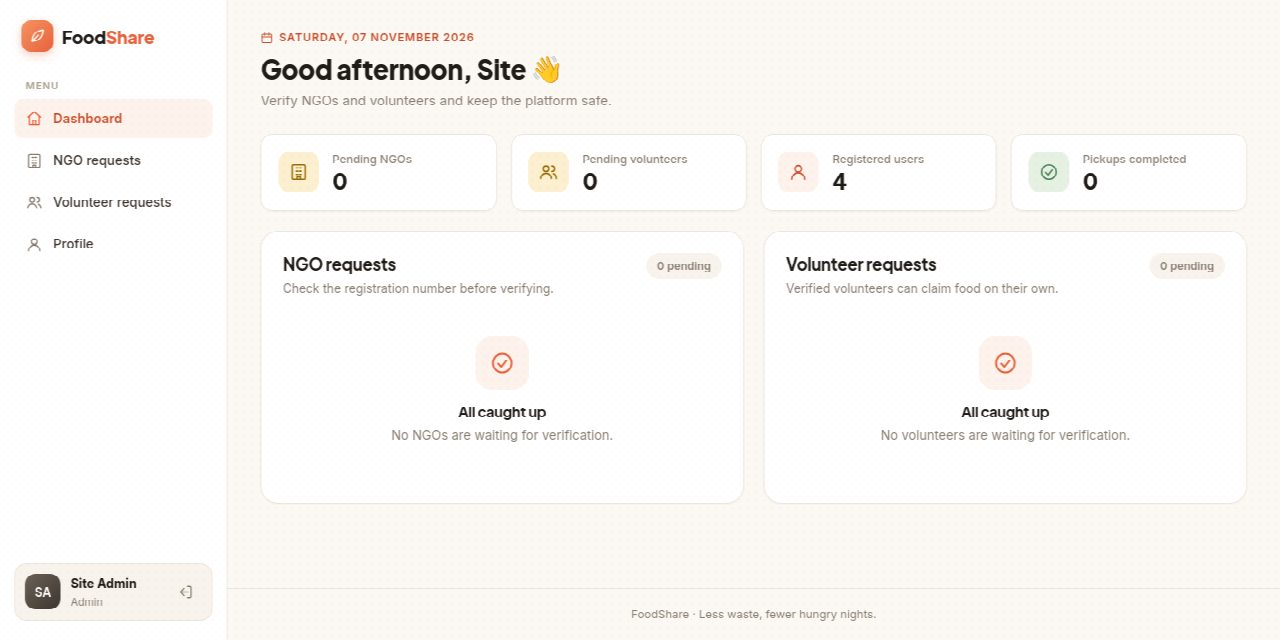
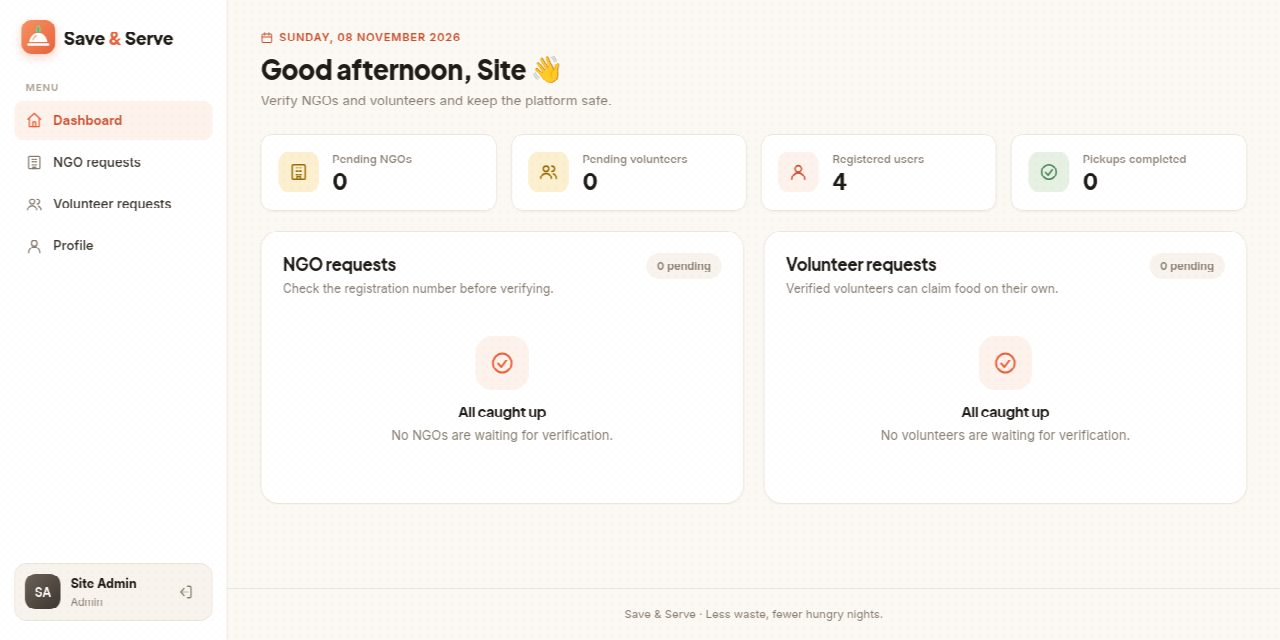
Rename the site from FoodShare to Save & Serve
Matches the project name used in the submitted documentation. Updates the sidebar and login branding to the new logo, page titles, favicon, footer, README and screenshots. Demo account emails (@foodshare.test) and the database name are unchanged.

diff --git a/assets/css/style.css b/assets/css/style.css
@@ -1,5 +1,5 @@
 /* ==========================================================================
-   FoodShare – design system (warm & light)
+   Save & Serve – design system (warm & light)
    1. Tokens   2. Base   3. Buttons   4. Forms   5. Alerts
    6. Auth pages   7. App shell   8. Dashboard   9. Food cards
    10. Tables & lists   11. Post food   12. Responsive
@@ -218,8 +218,7 @@ input.invalid:focus { box-shadow: 0 0 0 4px rgba(180, 35, 24, .14); }
 .sidebar .brand { padding: 0 .5rem; }
 .brand-light { color: #fff; }
 .brand-light b { color: #ffb59c; }
-.brand-mark { display: grid; place-items: center; width: 36px; height: 36px; border-radius: 11px; background: linear-gradient(135deg, #f59362, var(--primary)); color: #fff; box-shadow: 0 4px 12px rgba(232, 97, 60, .3); }
-.brand-mark .icon { width: 20px; height: 20px; }
+.brand-logo { width: 38px; height: 38px; flex-shrink: 0; border-radius: 11px; box-shadow: 0 4px 12px rgba(232, 97, 60, .3); }
 .auth-hero .brand { position: relative; z-index: 1; }
 
 .nav-label { font-size: .7rem; font-weight: 700; letter-spacing: .08em; text-transform: uppercase; color: #b0a597; padding: 0 .8rem; margin-bottom: .4rem; }
@@ -411,7 +410,7 @@ td small, .sub { display: block; color: var(--muted); font-size: .76rem; }
     .app { grid-template-columns: 1fr; }
     .sidebar { position: sticky; z-index: 20; height: auto; flex-direction: row; align-items: center; gap: .6rem; padding: .6rem 1rem; border-right: 0; border-bottom: 1px solid var(--border); }
     .sidebar .brand { padding: 0; font-size: 1.05rem; }
-    .sidebar .brand-mark { width: 32px; height: 32px; }
+    .sidebar .brand-logo { width: 32px; height: 32px; }
     .nav-label { display: none; }
     .sidebar > div { flex: 1; min-width: 0; }
     .side-nav { flex-direction: row; overflow-x: auto; flex: 1; scrollbar-width: none; }

diff --git a/includes/header.php b/includes/header.php
@@ -2,7 +2,7 @@
 // Expects $pageTitle (string). Optional: $bodyClass, $activeNav.
 require_once __DIR__ . '/ui.php';
 
-$pageTitle = $pageTitle ?? 'FoodShare';
+$pageTitle = $pageTitle ?? 'Save & Serve';
 $bodyClass = $bodyClass ?? '';
 $appShell  = is_logged_in() && $bodyClass !== 'auth-page';
 $current   = $activeNav ?? basename($_SERVER['SCRIPT_NAME'], '.php');
@@ -36,7 +36,8 @@ if ($appShell) {
 <head>
     <meta charset="UTF-8">
     <meta name="viewport" content="width=device-width, initial-scale=1">
-    <title><?= e($pageTitle) ?> | FoodShare</title>
+    <title><?= e($pageTitle) ?> | Save &amp; Serve</title>
+    <link rel="icon" type="image/svg+xml" href="assets/img/logo.svg">
     <link rel="preconnect" href="https://fonts.googleapis.com">
     <link rel="preconnect" href="https://fonts.gstatic.com" crossorigin>
     <link href="https://fonts.googleapis.com/css2?family=Inter:wght@400;500;600;700&family=Plus+Jakarta+Sans:wght@600;700;800&display=swap" rel="stylesheet">
@@ -47,8 +48,8 @@ if ($appShell) {
 <div class="app">
     <aside class="sidebar">
         <a class="brand" href="home.php">
-            <span class="brand-mark"><?= icon('leaf') ?></span>
-            <span>Food<b>Share</b></span>
+            <img class="brand-logo" src="assets/img/logo.svg" alt="">
+            <span>Save <b>&amp;</b> Serve</span>
         </a>
 
         <div>

diff --git a/team.php b/team.php
@@ -101,7 +101,7 @@ require __DIR__ . '/includes/header.php';
     <div class="profile-layout">
         <aside class="card">
             <h2>Add a volunteer</h2>
-            <p class="muted small">Enter the email of someone who already has a <strong>volunteer</strong> account on FoodShare.</p>
+            <p class="muted small">Enter the email of someone who already has a <strong>volunteer</strong> account on Save &amp; Serve.</p>
             <form method="post" id="teamForm">
                 <input type="hidden" name="csrf" value="<?= e($csrf) ?>">
                 <input type="hidden" name="action" value="add">

diff --git a/includes/auth_hero.php b/includes/auth_hero.php
@@ -1,7 +1,7 @@
 <aside class="auth-hero">
     <a class="brand brand-light" href="index.php">
-        <span class="brand-mark"><?= icon('leaf') ?></span>
-        <span>Food<b>Share</b></span>
+        <img class="brand-logo" src="assets/img/logo.svg" alt="">
+        <span>Save <b>&amp;</b> Serve</span>
     </a>
 
     <div class="hero-copy">

diff --git a/includes/footer.php b/includes/footer.php
@@ -1,5 +1,5 @@
 <?php if (!empty($appShell)): ?>
-        <footer class="app-footer">FoodShare &middot; Less waste, fewer hungry nights.</footer>
+        <footer class="app-footer">Save &amp; Serve &middot; Less waste, fewer hungry nights.</footer>
     </div><!-- /.main -->
 </div><!-- /.app -->
 <?php endif; ?>

diff --git a/README.md b/README.md
@@ -1,7 +1,9 @@
-# FoodShare – Surplus Food Sharing Platform
+<img src="assets/img/logo-full.svg" alt="Save &amp; Serve" height="64">
+
+# Save & Serve – Surplus Food Sharing Platform
 
 Restaurants and wedding halls throw away edible food while people nearby go hungry.
-**FoodShare** lets donors post surplus food with a quantity and pickup window, and lets NGOs and
+**Save & Serve** lets donors post surplus food with a quantity and pickup window, and lets NGOs and
 verified volunteers claim and collect it before it goes to waste.
 
 **Stack:** PHP 8 (PDO, sessions), MySQL / MariaDB, HTML, CSS and vanilla JavaScript. No framework.
@@ -136,7 +138,7 @@ includes/         auth.php (sessions, roles, CSRF, claim rules), ui.php (icons, 
                   header.php, footer.php, auth_hero.php
 sql/              schema.sql, seed.sql
 docs/             erd.mmd, project documentation (.docx), screenshots/
-assets/           css/style.css, js/validate.js, img/ (category and login photos)
+assets/           css/style.css, js/validate.js, img/ (logo, category and login photos)
 ```
 
 ## Database
@@ -145,7 +147,7 @@ Eight tables, see [docs/erd.mmd](docs/erd.mmd):
 `food_categories`, `food_posts`, `claims` (one per post) and `post_status_logs` (history).
 
 ## Image credits
-Photos in `assets/img/` are from [Unsplash](https://unsplash.com) and used under the
+The logo (`logo.svg`, `logo-full.svg`) was made for this project. Photos in `assets/img/` are from [Unsplash](https://unsplash.com) and used under the
 [Unsplash License](https://unsplash.com/license) (free for commercial and non-commercial use).
 
 | File | Source |
